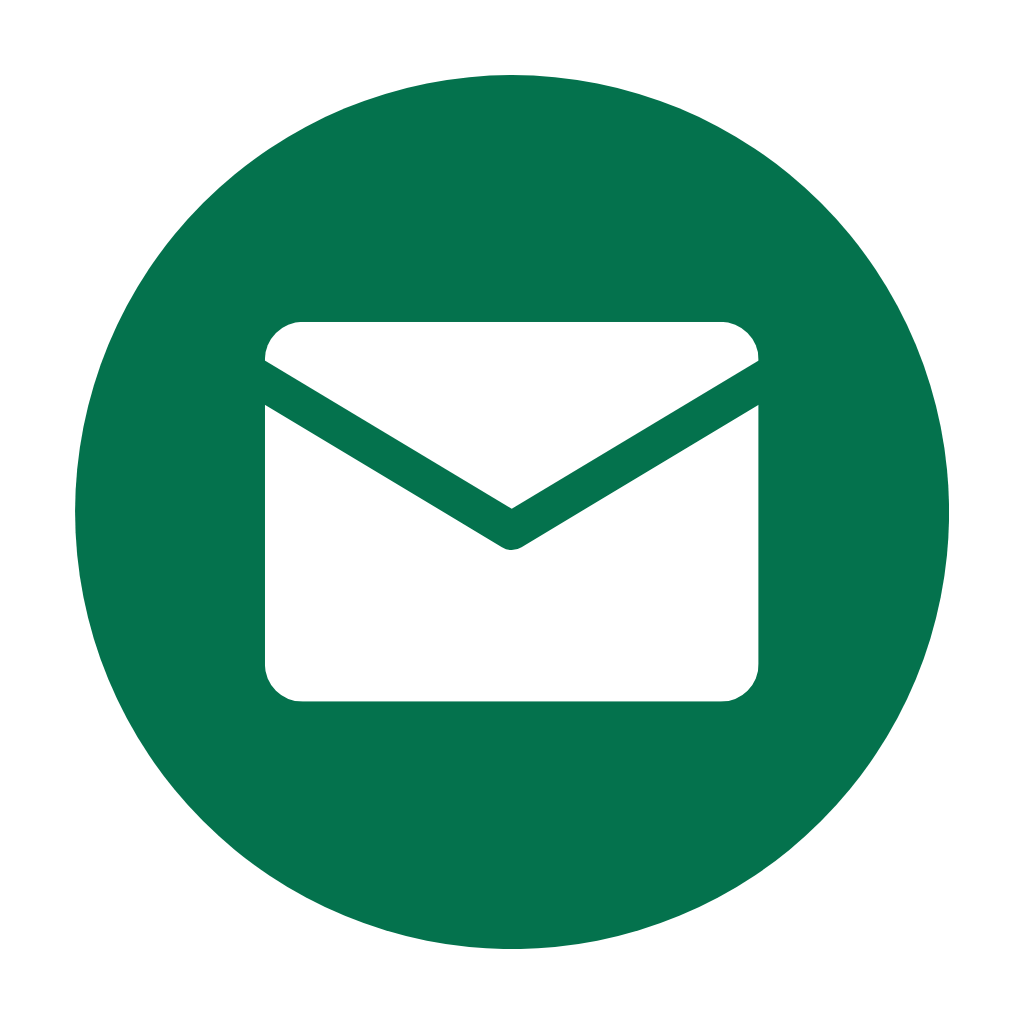
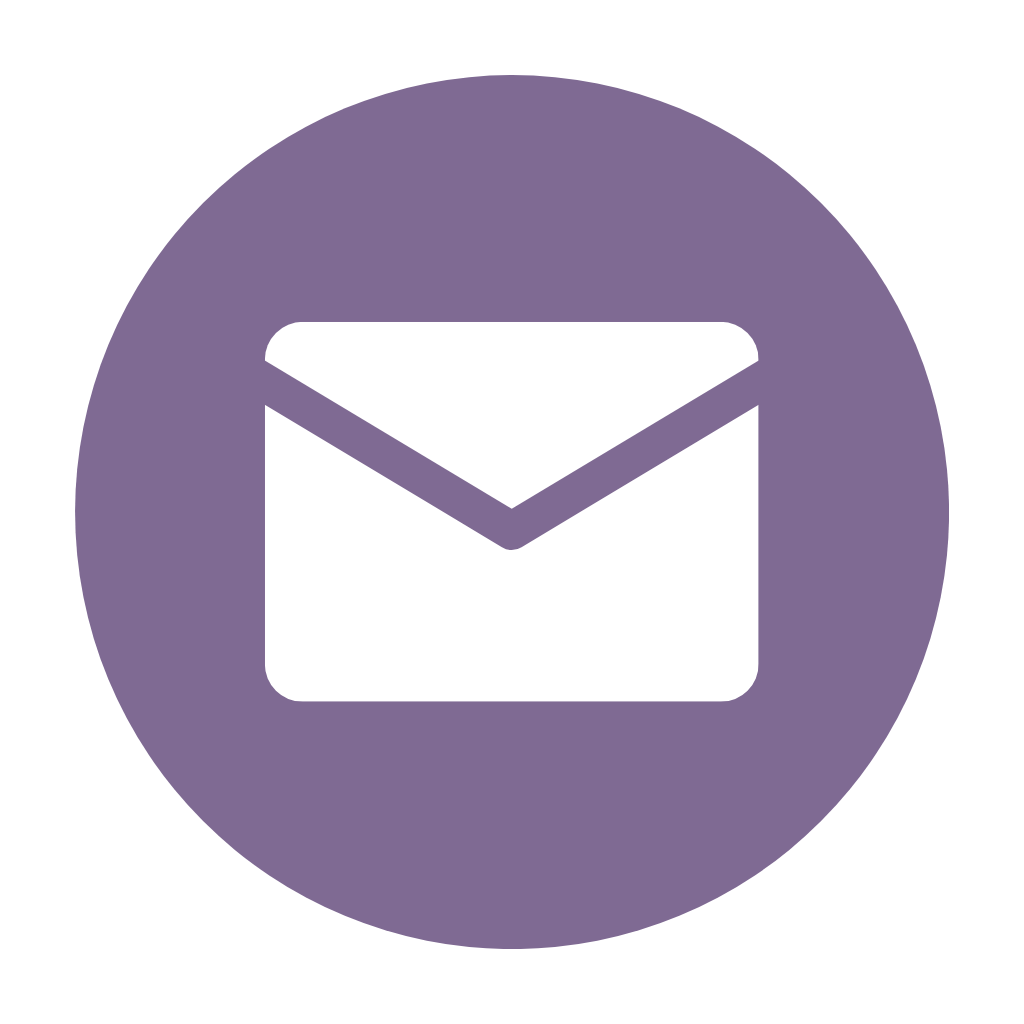
changed color scheme

diff --git a/app.js b/app.js
@@ -8,10 +8,10 @@ const skillsLink = document.getElementById("skills")
 const projectsLink = document.getElementById("projects")
 const contactLink = document.getElementById("contact")
 
-aboutLink.style.color = "#04724D"
+aboutLink.style.color = "#7F6A93"
 
 aboutLink.addEventListener("click", function(e) {
-    aboutLink.style.color = "#04724D"
+    aboutLink.style.color = "#7F6A93"
     skillsLink.style.color = "#282828"
     projectsLink.style.color = "#282828"
     contactLink.style.color = "#282828"
@@ -19,7 +19,7 @@ aboutLink.addEventListener("click", function(e) {
 
 skillsLink.addEventListener("click", function(e) {
     aboutLink.style.color = "#282828"
-    skillsLink.style.color = "#04724D"
+    skillsLink.style.color = "#7F6A93"
     projectsLink.style.color = "#282828"
     contactLink.style.color = "#282828"
 })
@@ -27,7 +27,7 @@ skillsLink.addEventListener("click", function(e) {
 projectsLink.addEventListener("click", function(e) {
     aboutLink.style.color = "#282828"
     skillsLink.style.color = "#282828"
-    projectsLink.style.color = "#04724D"
+    projectsLink.style.color = "#7F6A93"
     contactLink.style.color = "#282828"
 })
 
@@ -35,12 +35,12 @@ contactLink.addEventListener("click", function(e) {
     aboutLink.style.color = "#282828"
     skillsLink.style.color = "#282828"
     projectsLink.style.color = "#282828"
-    contactLink.style.color = "#04724D"
+    contactLink.style.color = "#7F6A93"
 })
 
 
 aboutSection.addEventListener("mouseover", function (e) {
-    aboutLink.style.color = "#04724D"
+    aboutLink.style.color = "#7F6A93"
     skillsLink.style.color = "#282828"
     projectsLink.style.color = "#282828"
     contactLink.style.color = "#282828"
@@ -48,7 +48,7 @@ aboutSection.addEventListener("mouseover", function (e) {
 
 skillsSection.addEventListener("mouseover", function (e) {
     aboutLink.style.color = "#282828"
-    skillsLink.style.color = "#04724D"
+    skillsLink.style.color = "#7F6A93"
     projectsLink.style.color = "#282828"
     contactLink.style.color = "#282828"
 })
@@ -56,7 +56,7 @@ skillsSection.addEventListener("mouseover", function (e) {
 projectSection.addEventListener("mouseover", function (e) {
     aboutLink.style.color = "#282828"
     skillsLink.style.color = "#282828"
-    projectsLink.style.color = "#04724D"
+    projectsLink.style.color = "#7F6A93"
     contactLink.style.color = "#282828"
 })
 
@@ -64,5 +64,5 @@ contactSection.addEventListener("mouseover", function (e) {
     aboutLink.style.color = "#282828"
     skillsLink.style.color = "#282828"
     projectsLink.style.color = "#282828"
-    contactLink.style.color = "#04724D"
+    contactLink.style.color = "#7F6A93"
 })

diff --git a/style.css b/style.css
@@ -71,7 +71,7 @@ main {
 
 #title {
     font-size: 20px;
-    color: #53243A;
+    color: #4A7C59;
     margin-top: -10px;
 }
 
@@ -86,7 +86,7 @@ main {
 }
 
 .sectionHeader {
-    color: #255C99;
+    color: #04724D;
     font-size: 30px;
     text-align: center;
 }
@@ -210,7 +210,7 @@ main {
     padding: 20px;
     align-items: flex-start;
     justify-content: space-evenly;
-    background-color: #53243A;
+    background-color: #4A7C59;
     border-radius: 33px;
     box-shadow: 5px 5px 20px gray;
 }
